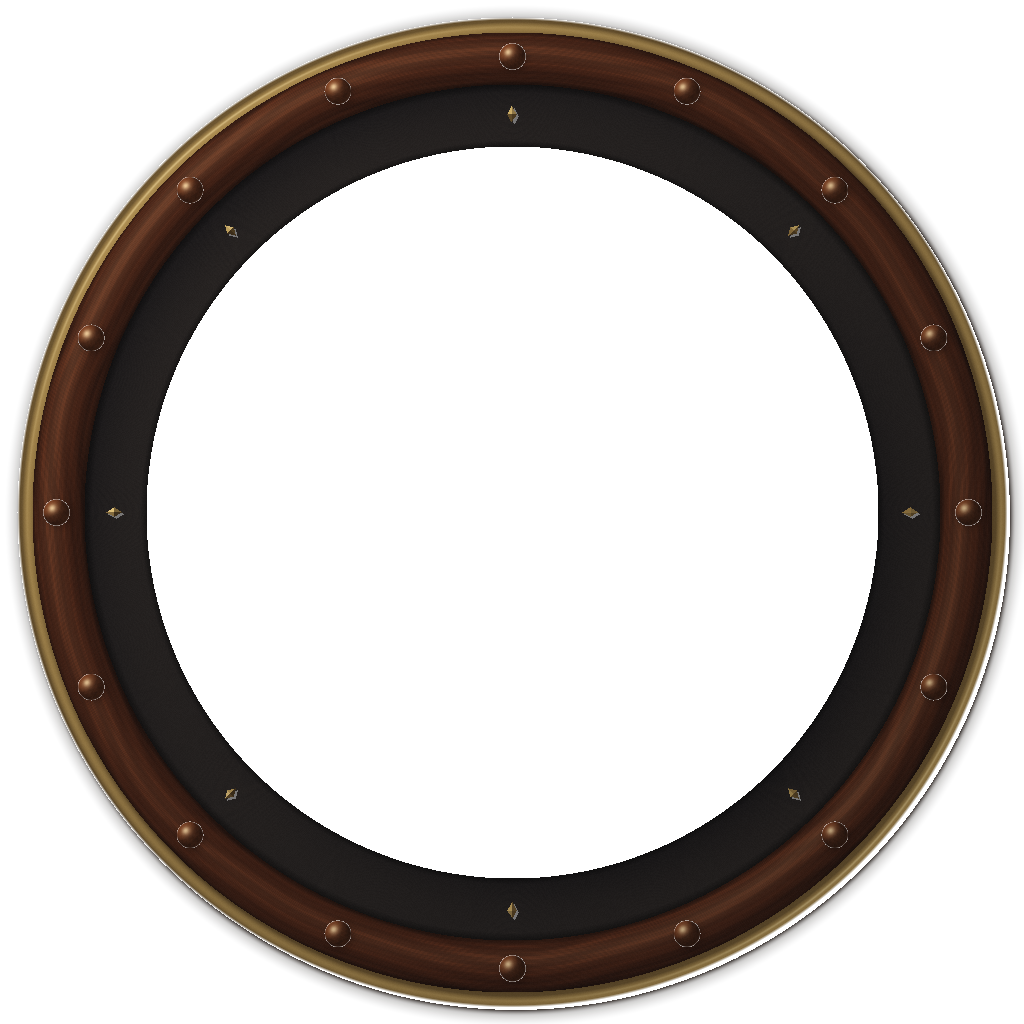
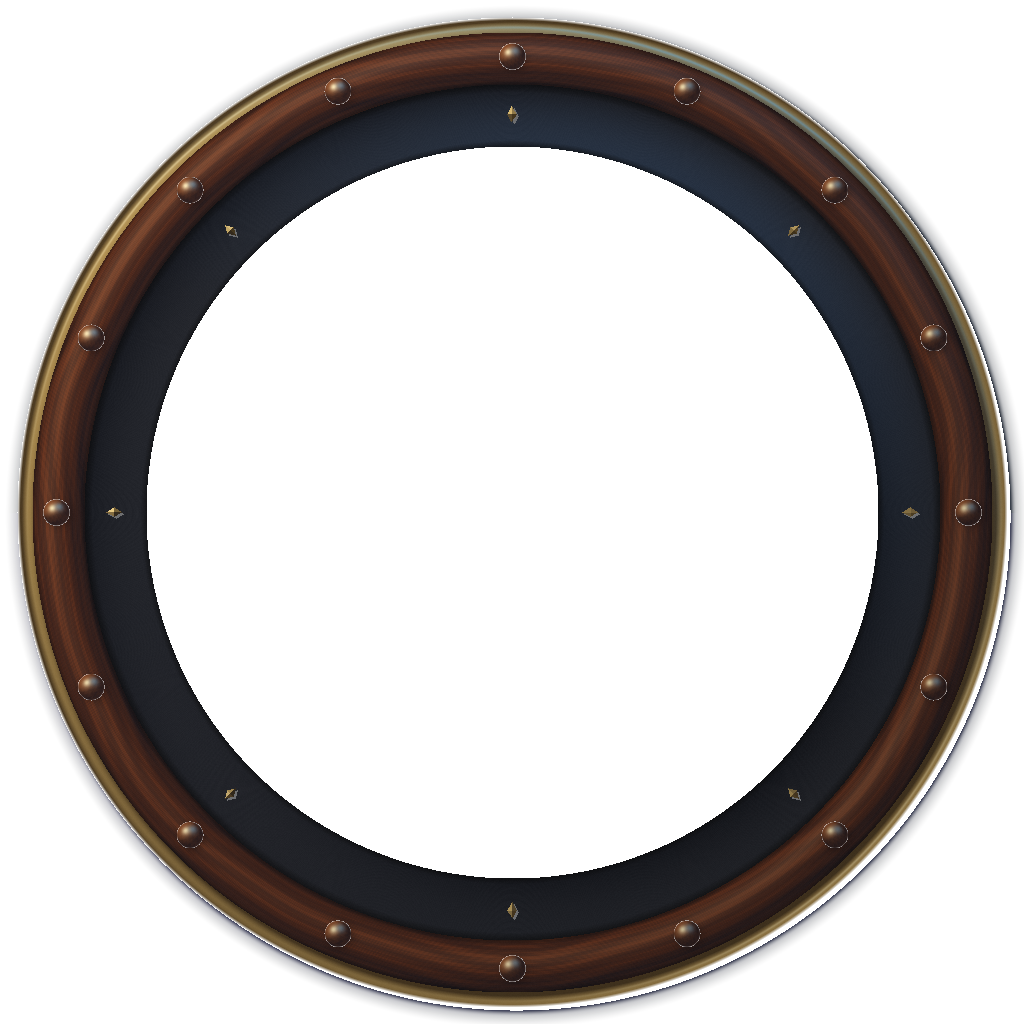
Update headline typography and studio-synced photorealistic roulette rendering

diff --git a/roulette.js b/roulette.js
@@ -371,12 +371,25 @@ class LiveRouletteEngine {
     ctx.arc(bx, by, ballSize, 0, Math.PI * 2);
     ctx.fill();
 
-    // 4. Physically Shaped Specular Hotspot (Soft halo + tight champagne core)
+    // 4. Cool Blue Studio Ambient Reflection (Top/Right from studio lights)
+    const blueReflGrad = ctx.createRadialGradient(
+      bx + ballSize * 0.25, by - ballSize * 0.35, ballSize * 0.05,
+      bx + ballSize * 0.25, by - ballSize * 0.35, ballSize * 0.55
+    );
+    blueReflGrad.addColorStop(0, 'rgba(100, 195, 255, 0.40)');
+    blueReflGrad.addColorStop(0.5, 'rgba(70, 160, 255, 0.18)');
+    blueReflGrad.addColorStop(1, 'rgba(50, 140, 255, 0)');
+    ctx.fillStyle = blueReflGrad;
+    ctx.beginPath();
+    ctx.arc(bx, by, ballSize, 0, Math.PI * 2);
+    ctx.fill();
+
+    // 5. Physically Shaped Specular Hotspot (Soft halo + tight champagne core)
     const specGrad = ctx.createRadialGradient(
       bx - ballSize * 0.32, by - ballSize * 0.32, 0,
       bx - ballSize * 0.32, by - ballSize * 0.32, ballSize * 0.45
     );
-    specGrad.addColorStop(0, 'rgba(255, 252, 242, 0.90)');
+    specGrad.addColorStop(0, 'rgba(255, 252, 242, 0.92)');
     specGrad.addColorStop(0.35, 'rgba(250, 240, 215, 0.45)');
     specGrad.addColorStop(1, 'rgba(240, 225, 190, 0)');
     ctx.fillStyle = specGrad;

diff --git a/index.html b/index.html
@@ -135,7 +135,7 @@
           <div class="vip-tag">★ VIP LIVE TABLE ★</div>
           <h1 class="intro-title">
             REALISTIC 3D<br>
-            <span class="gold-gradient-text">LIVE ROULETTE</span>
+            LIVE ROULETTE
           </h1>
           <p class="intro-subtitle">
             Welcome to the table! Choose <strong>ODD</strong>, <strong>EVEN</strong>, or <strong>ZERO</strong>, spin the physical wheel, and claim your exclusive <strong>488% Welcome Bonus</strong>.
